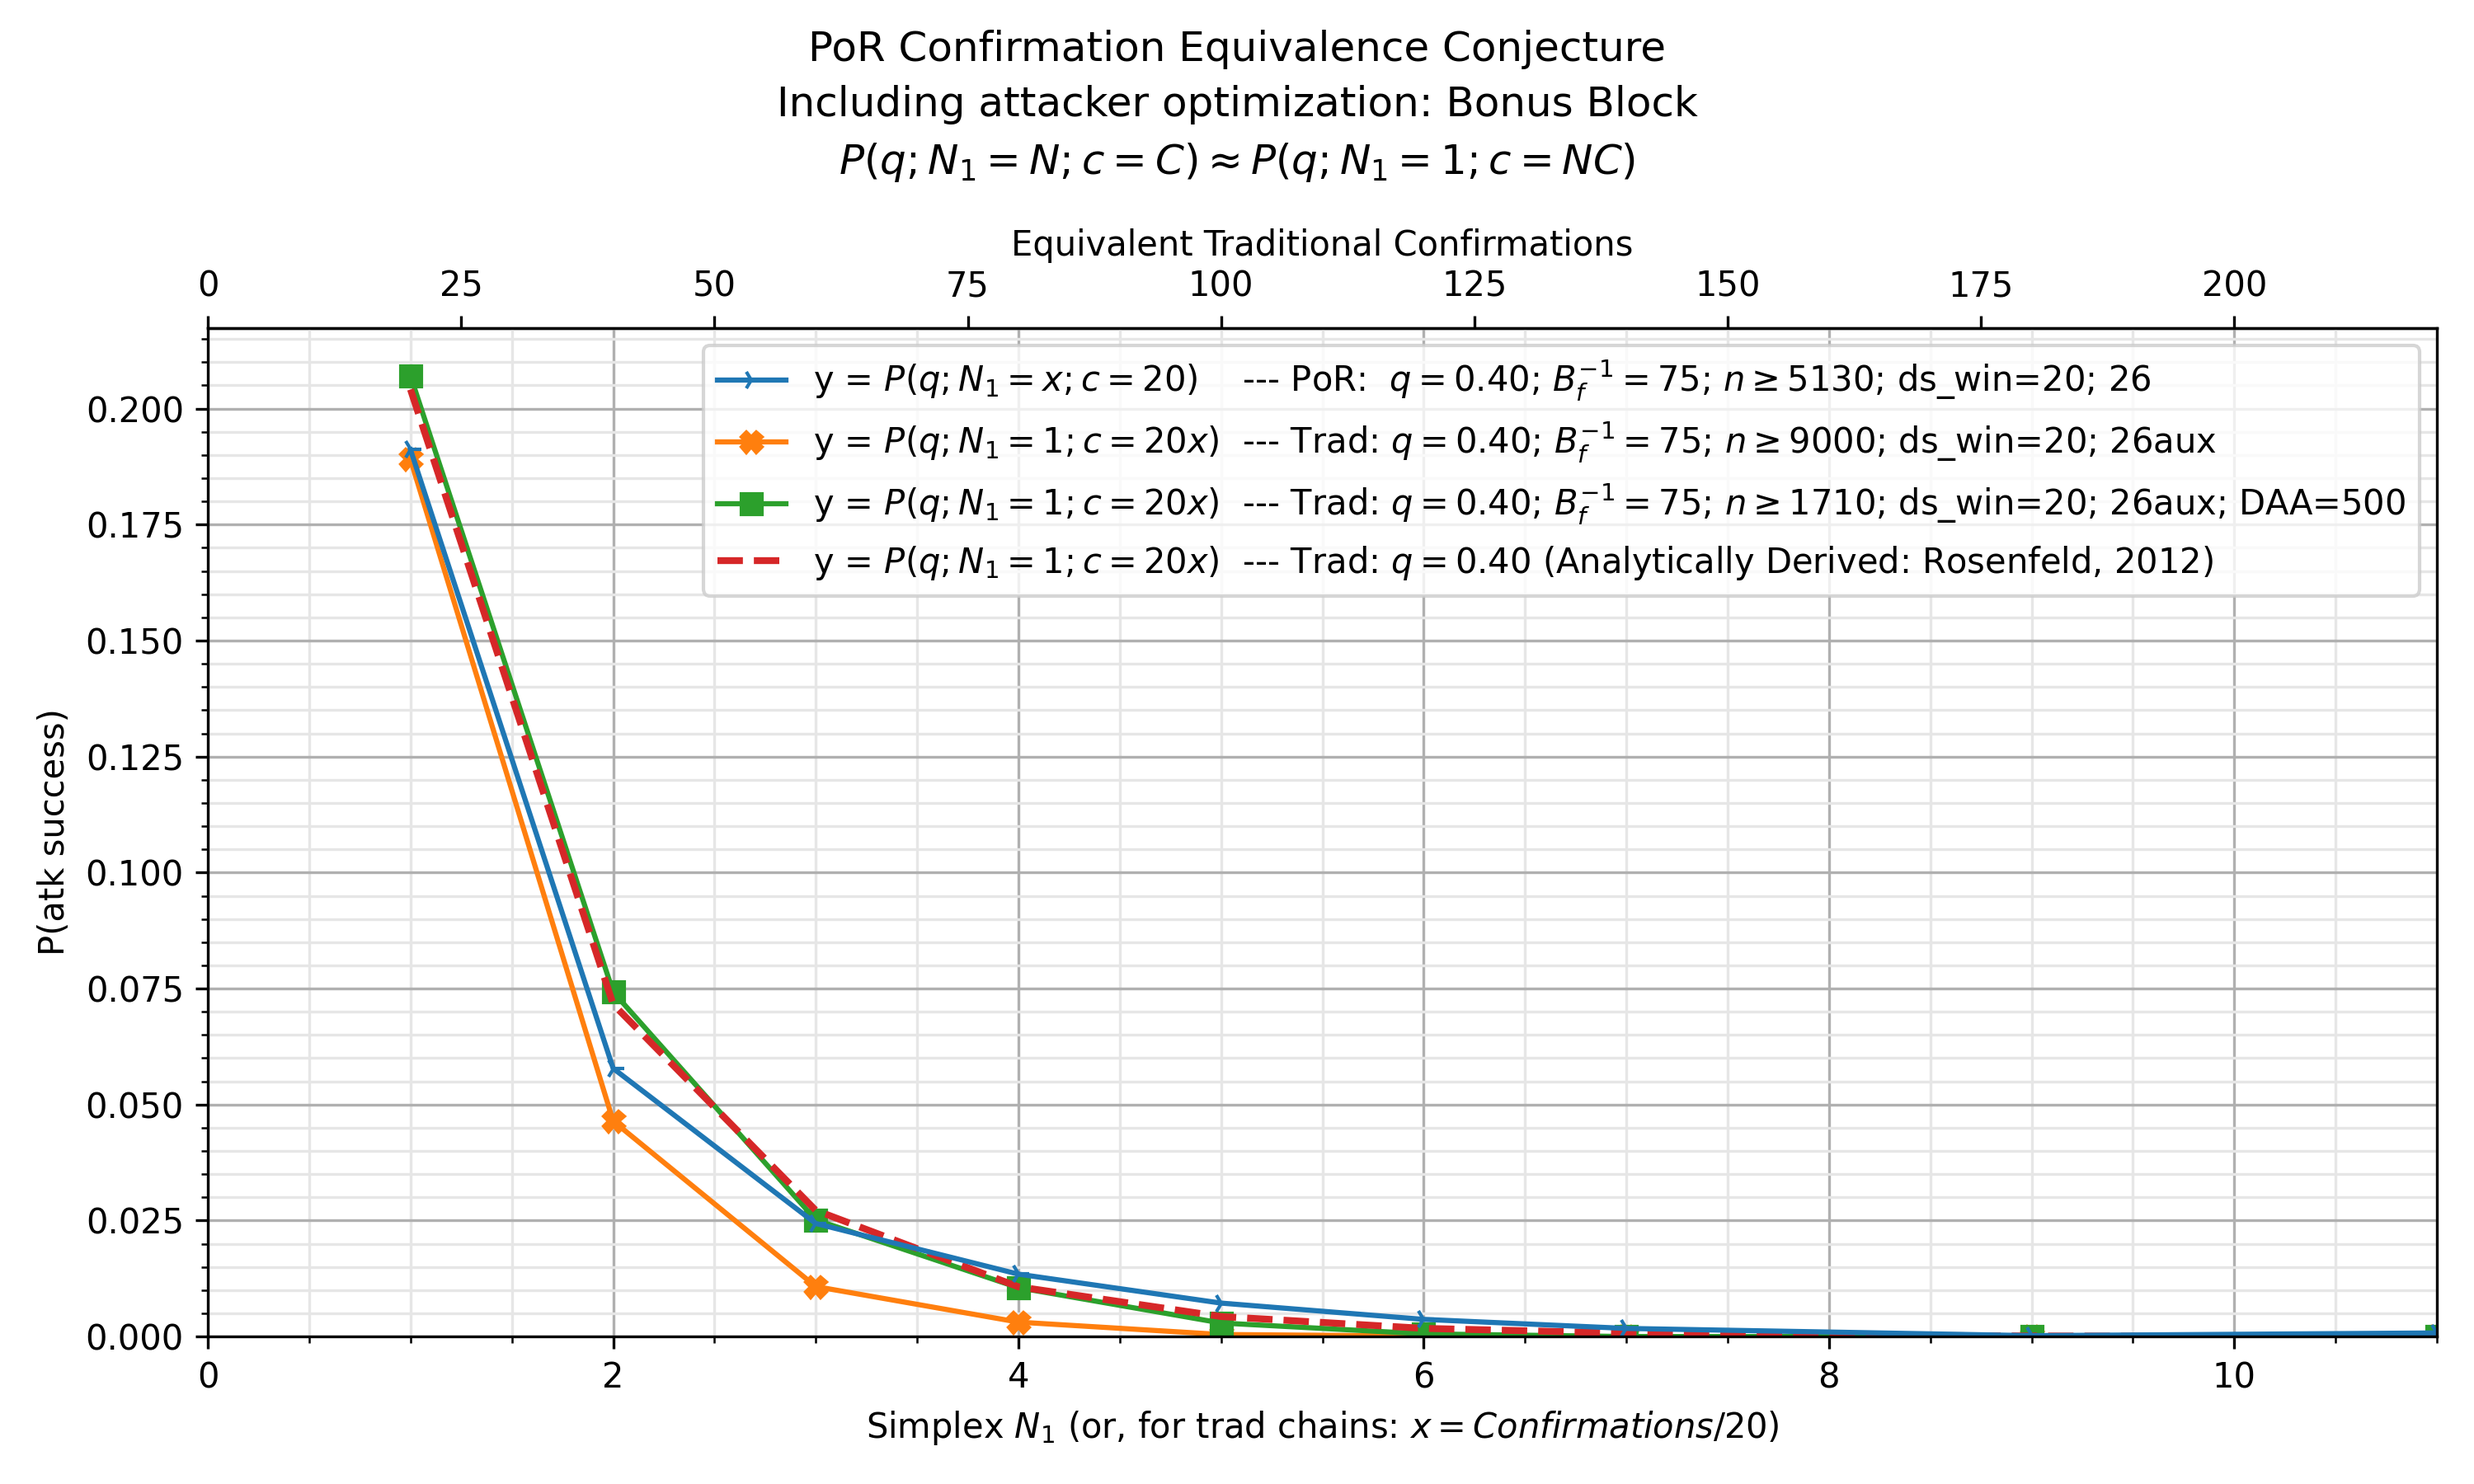
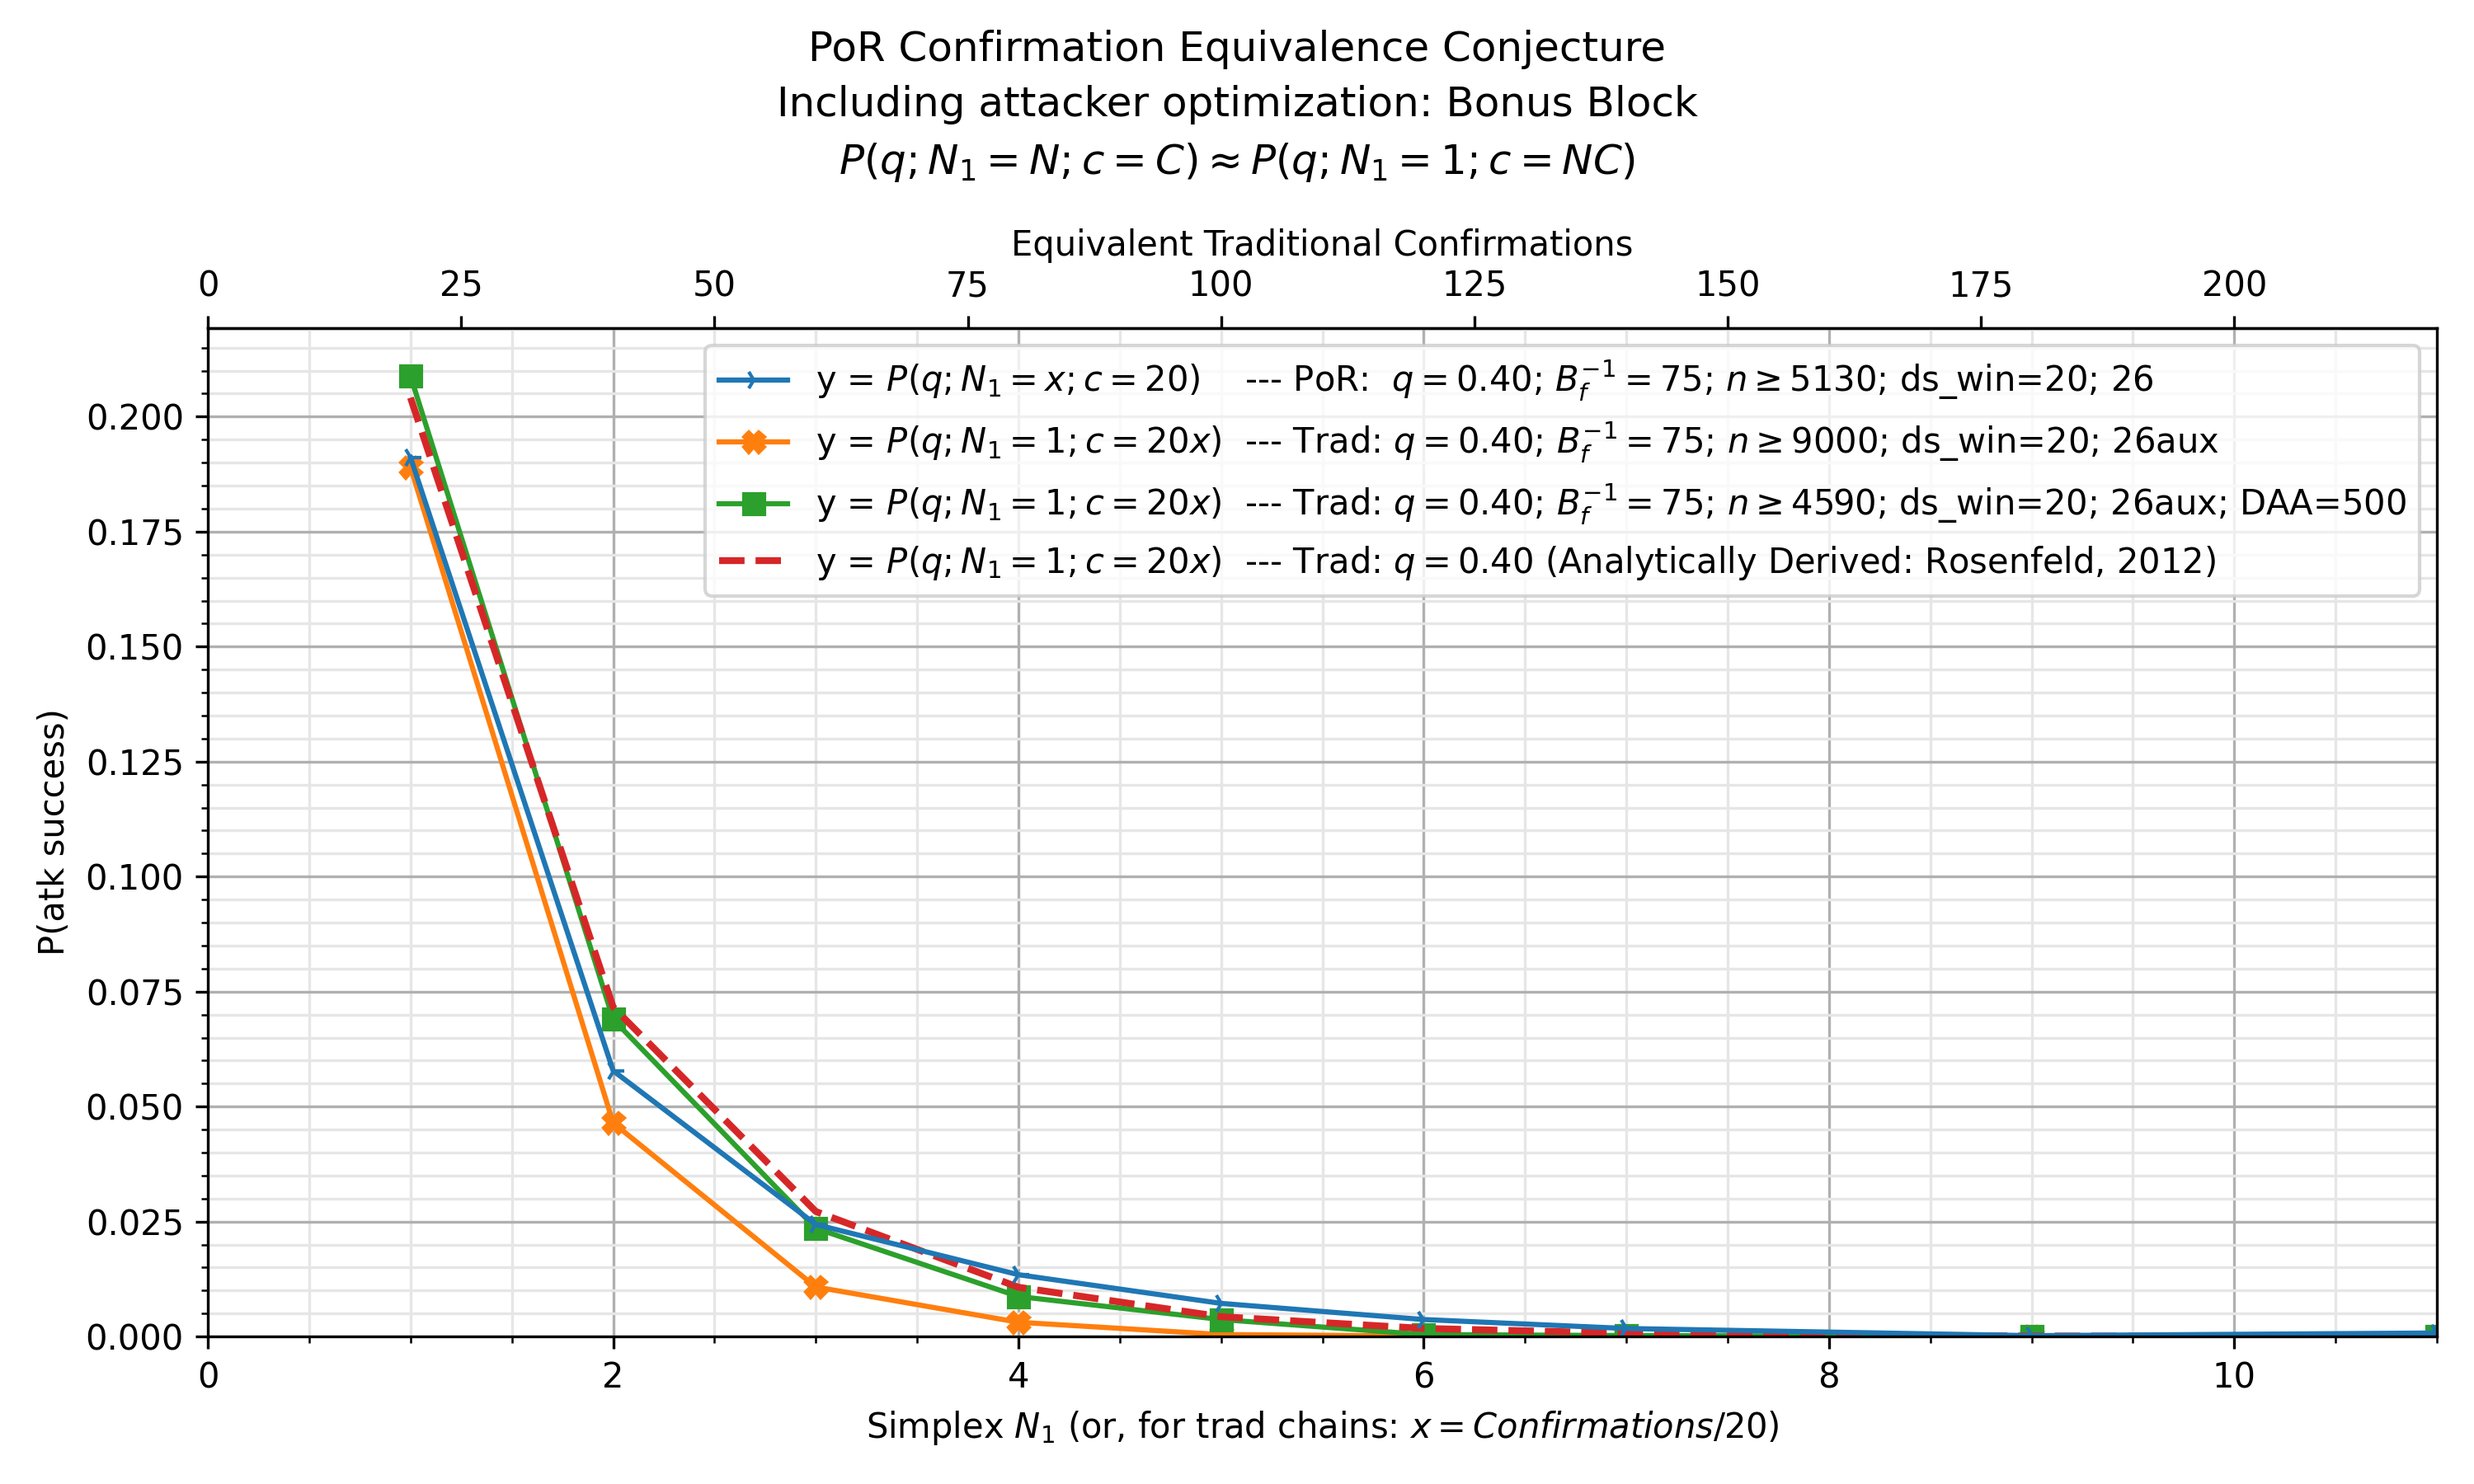
update charts w init daa 500 data (will take a long time to generate)

diff --git a/experiments/por-sim-rs/bin/py_stats.py b/experiments/por-sim-rs/bin/py_stats.py
@@ -681,7 +681,6 @@ def main(filter_fname: Optional[str], n_jobs: int):
         csvs = [
             (csv_name_f(q, t, bt, hr, exp_num=exp, daa=daa, strat="DoubleSpendWork", cs="WeightedDag", **kwargs), 'por', None),
             (csv_name_f(q, t, bt, hr, exp_num=f'{exp}{aux}', daa=daa, strat="DoubleSpendWork", cs="WeightedDag", **kwargs), 'trad', None),
-            (csv_name_f(q, t, bt, hr, exp_num=f'{exp}{aux}', daa=500, strat="DoubleSpendWork", cs="WeightedDag", **kwargs), 'trad', None),
             (csv_name_f(q, f'{2*int(t):d}', bt, hr, exp_num=exp, daa=daa, strat="DoubleSpendWork", cs="WeightedDag", **kwargs), 'por', PorPlotOpts(cec_scaled=2)),
         ]
         if int(t) == 5:
@@ -1014,17 +1013,17 @@ def main(filter_fname: Optional[str], n_jobs: int):
     ] + [
         # just e26 CEC EXT
         SavePlot(
-            gen_por_cec_ext_test(q, t, exp='26', aux='aux', bt=75, hr=75, daa=100, hashname="xxh3"),
+            gen_por_cec_ext_test(q, t, exp='26', aux='aux', bt=75, hr=75, daa=daa, hashname="xxh3"),
             "\n".join([
                 f"PoR Confirmation Equivalence Conjecture (Extended)",
                 f"{CEC_EXT2_TITLE_STR}",
                 f"If the CEC is true, then these plots should all line up.",
             ]),
-            f"png/_e26_ext_9000_q={q}_t={t}.png",
+            f"png/_e26_ext_9000_q={q}_t={t}_daa={daa}.png",
             x_label=std_x_label(t),
             x_range=q_t_to_x_range[(q, t)],
         )
-        for q in ['0.40', '0.44', '0.48'] for t in ['5', '10']
+        for q in ['0.40', '0.44', '0.48'] for t in ['5', '10'] for daa in [100, 500]
     ]
 
     pool = mpp.Pool(n_jobs)
